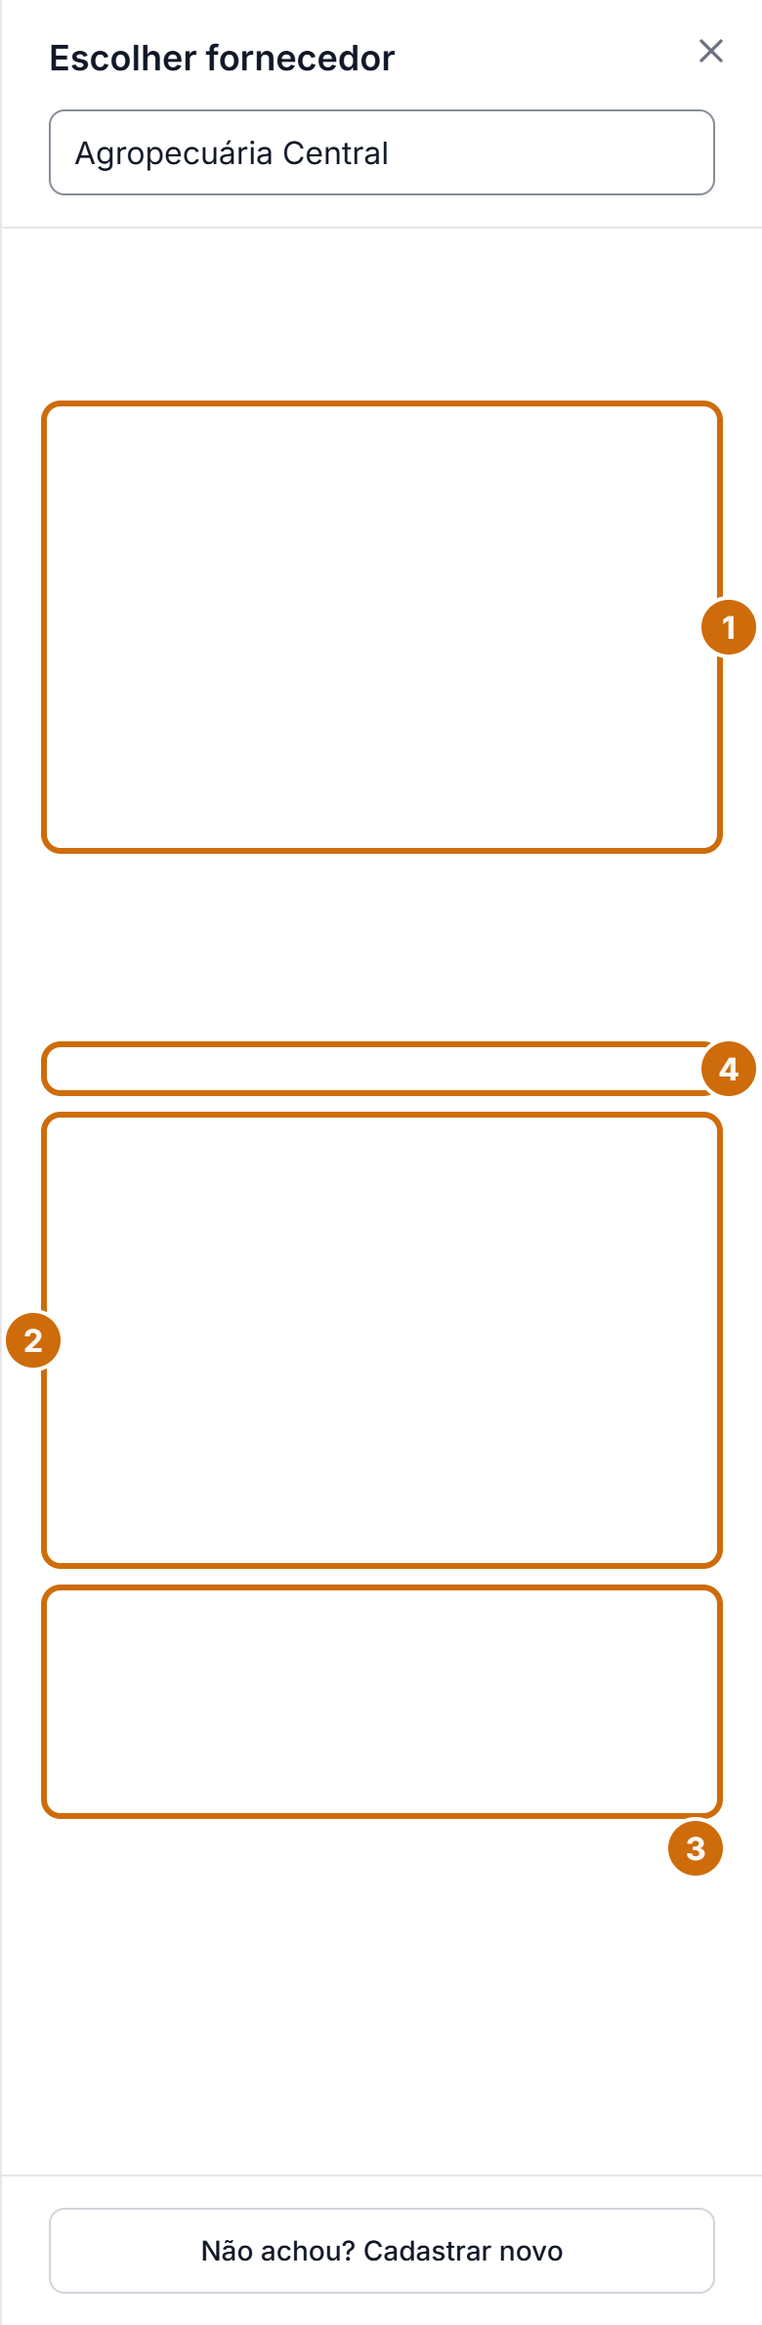
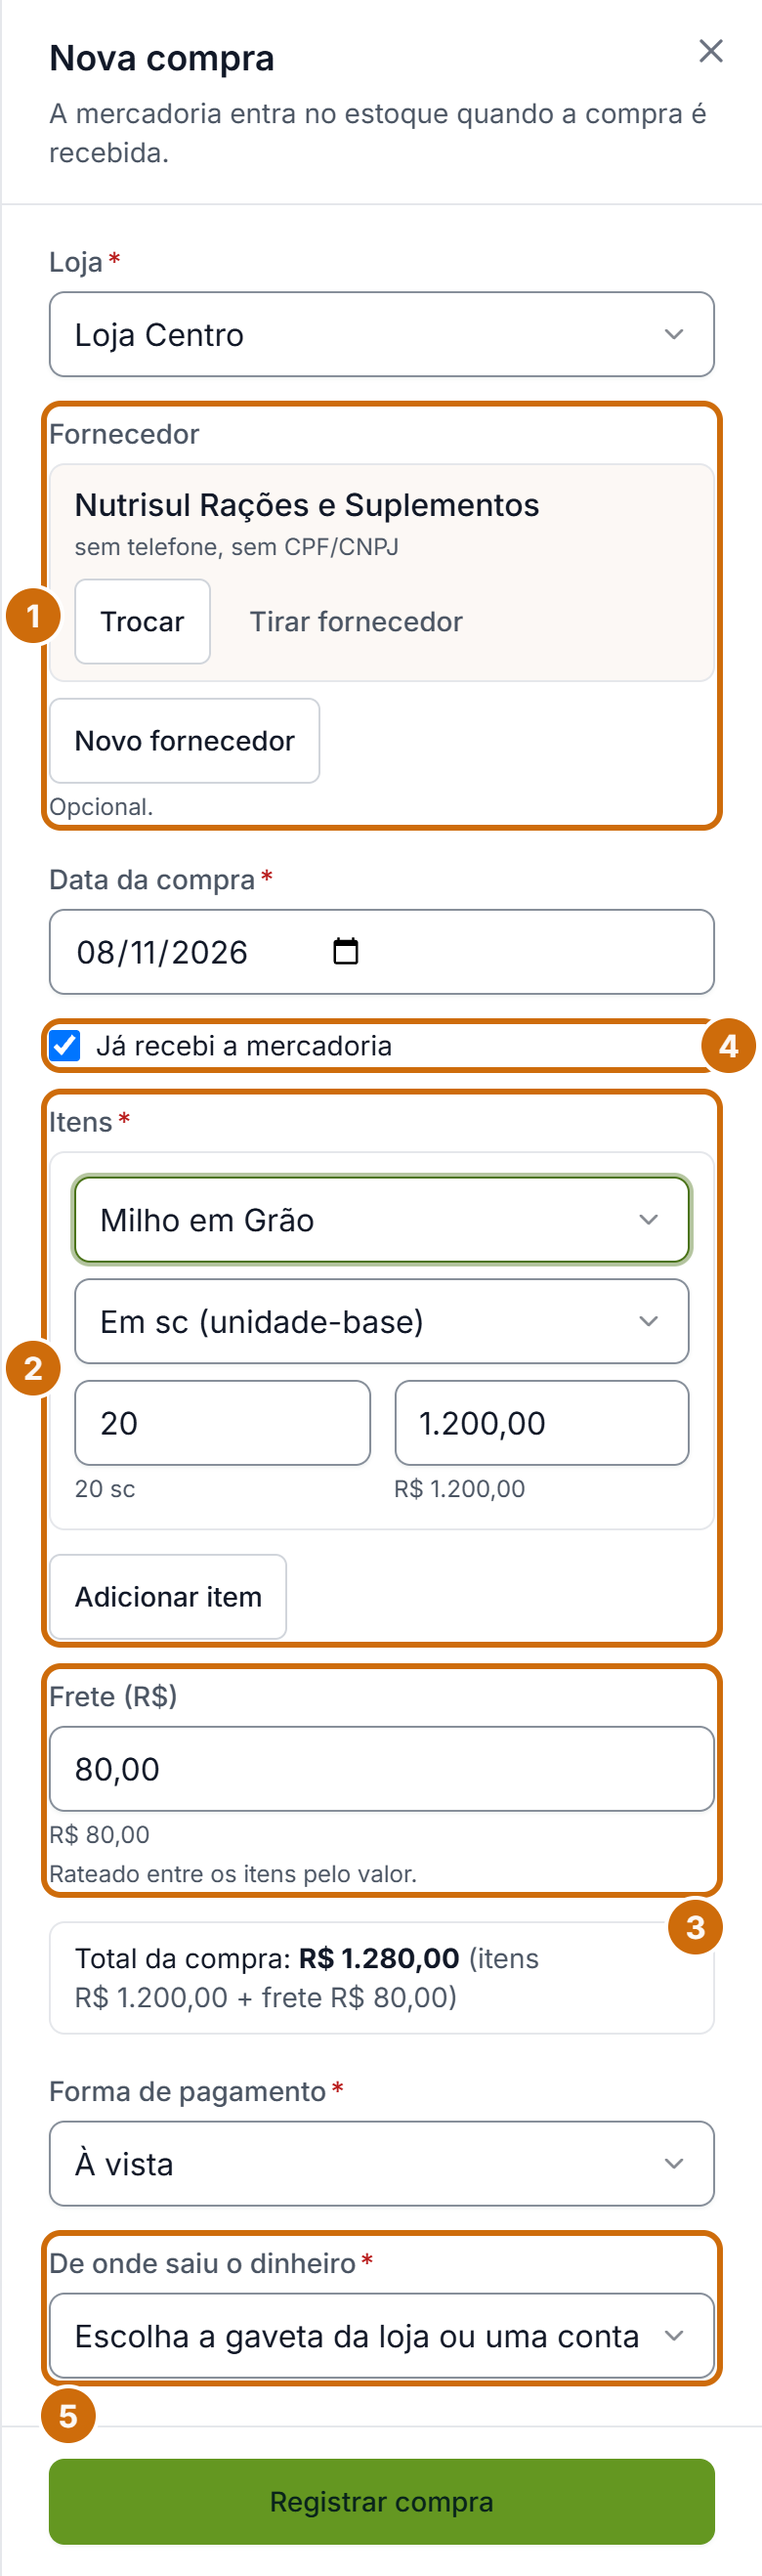
Manual do Empório: a figura da compra nova escolhe um fornecedor que existe na demonstração e marca o campo De onde saiu o dinheiro
A figura saía com a busca de fornecedor aberta porque o nome usado não existia na demonstração; agora o estado reprova se a janela não fechar.

Claude-Session: https://claude.ai/code/session_01PpptRRZ1JZSFf6MpjaB4t9

diff --git a/src/app/(dashboard)/manual/_conteudo/figuras.ts b/src/app/(dashboard)/manual/_conteudo/figuras.ts
@@ -124,12 +124,13 @@ export const FIGURAS: Figura[] = [
     pagina: "/emporio/compras",
     papel: "gestor",
     legenda: "Lançando uma compra de mercadoria",
-    alt: "Painel Nova compra com fornecedor, itens, frete e forma de pagamento",
+    alt: "Painel Nova compra com fornecedor, itens, frete, forma de pagamento e de onde saiu o dinheiro",
     marcas: [
       { numero: 1, alvo: "o campo Fornecedor", texto: "Opcional. Toque em Escolher fornecedor e busque pelo nome, pelo documento ou por um pedaço do telefone. Na propriedade do dono, a forma de pagamento some." },
       { numero: 2, alvo: "a lista de itens (produto, quantidade, valor total do item)", texto: "Digite o valor total de cada item, não o valor por unidade." },
       { numero: 3, alvo: "o campo Frete (R$)", texto: "É dividido entre os itens pelo valor de cada um." },
       { numero: 4, alvo: "a caixa Já recebi a mercadoria", texto: "Se ainda não chegou, a conta a pagar nasce hoje e o estoque entra quando você receber." },
+      { numero: 5, alvo: "o campo De onde saiu o dinheiro", texto: "Na compra paga na hora, diga se o dinheiro saiu da gaveta da loja ou de uma conta." },
     ],
   },
   {

diff --git a/scripts/navegador/manual-emporio.py b/scripts/navegador/manual-emporio.py
@@ -615,7 +615,7 @@ def estado_compra_nova():
     clicar("Nova compra")
     time.sleep(1.5)
     escolher("Loja", "Loja Centro")
-    escolher_fornecedor("Agropecuária Central")
+    confere("compra-nova: fornecedor da demonstracao escolhido", escolher_fornecedor("Nutrisul Rações e Suplementos", "Nutrisul") is True)
     escolher_aria("Produto do item 1", "Milho em Grão")
     time.sleep(0.8)
     preencher_aria("Quantidade do item 1", "20")
@@ -629,6 +629,7 @@ figura("compra-nova", "gestor", "/emporio/compras", [
     (2, "M.L('Itens')", "a lista de itens"),
     (3, "M.L('Frete (R$)')", "o campo Frete"),
     (4, "M.T('Já recebi a mercadoria')", "a escolha entre ja recebi e vai chegar"),
+    (5, "M.L('De onde saiu o dinheiro')", "o campo De onde saiu o dinheiro"),
 ], estado=estado_compra_nova, hd=1300, hc=1700)
 
 figura("compra-receber", "vendedor_centro", "/emporio/compras", [
